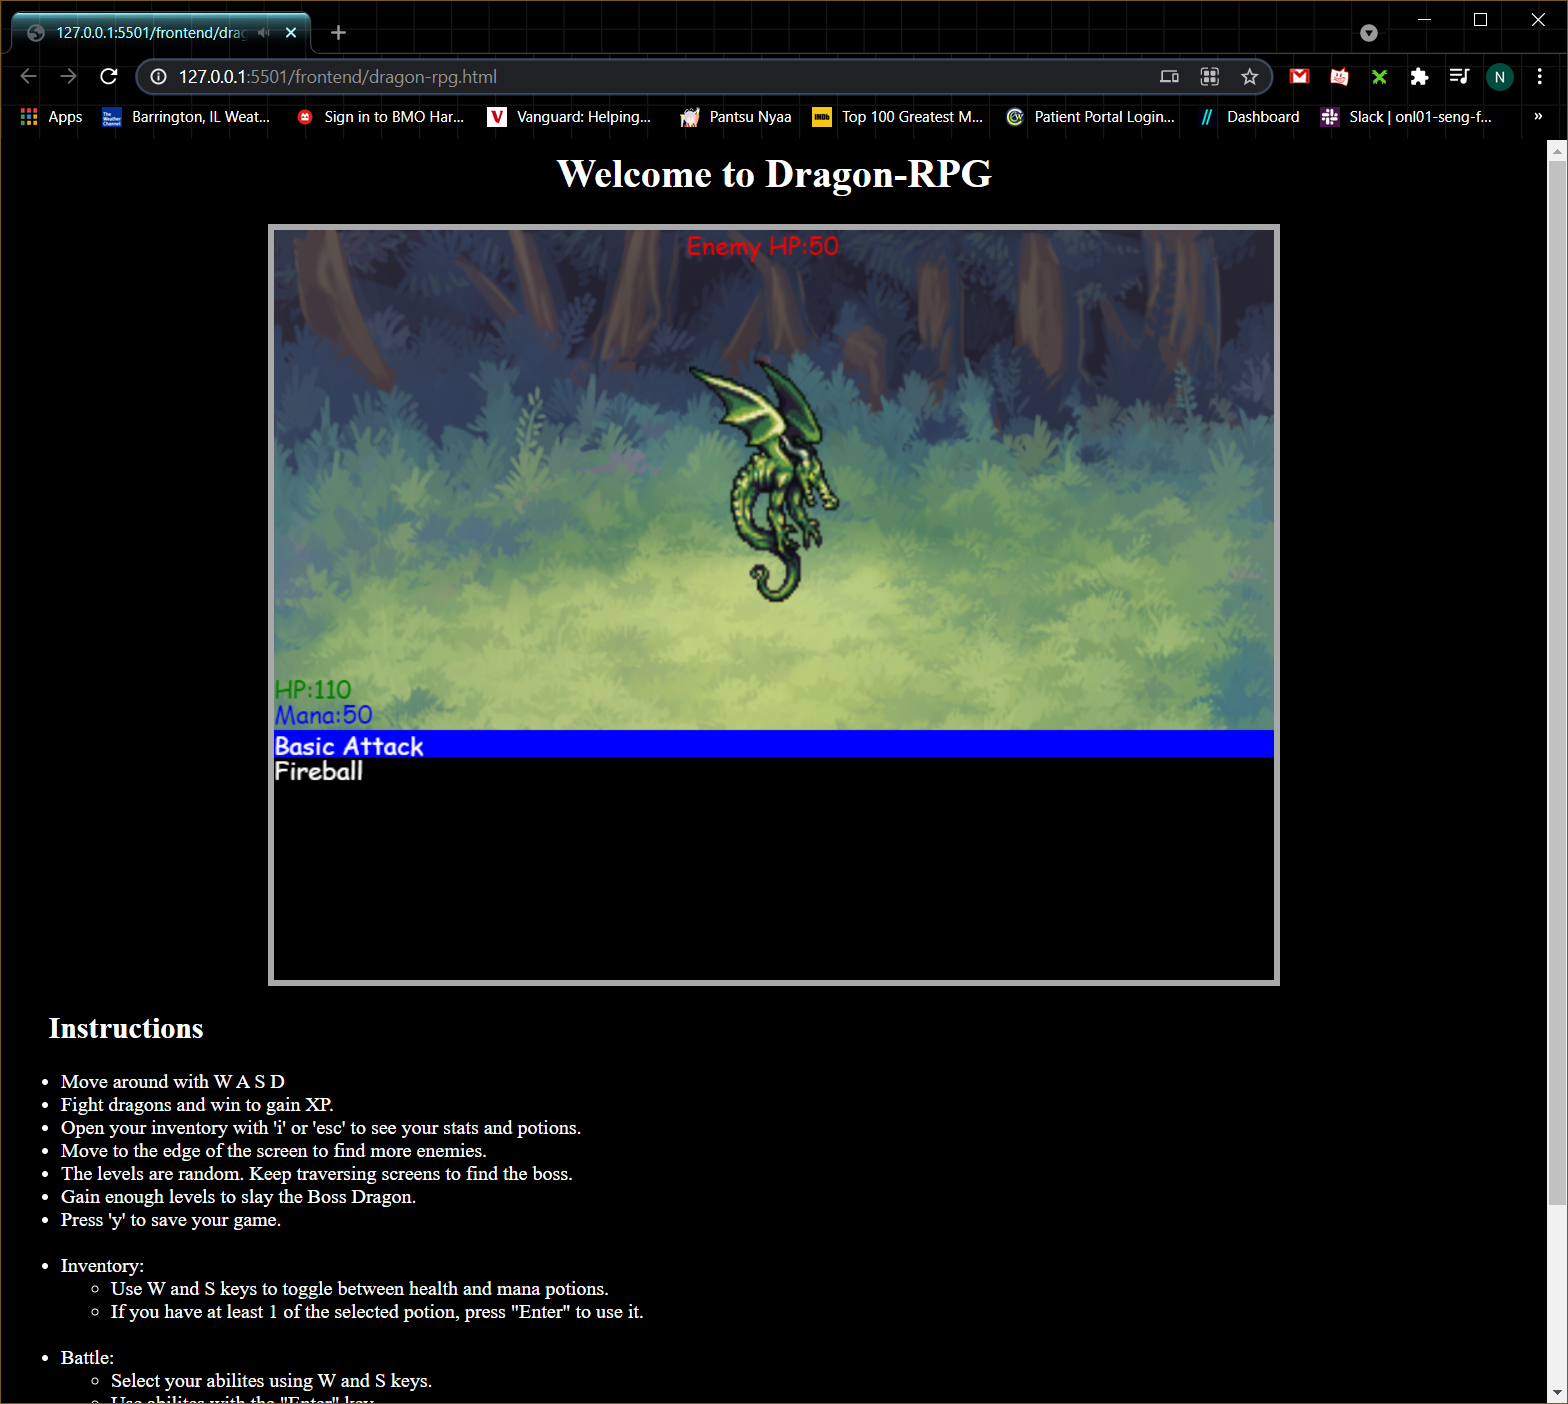
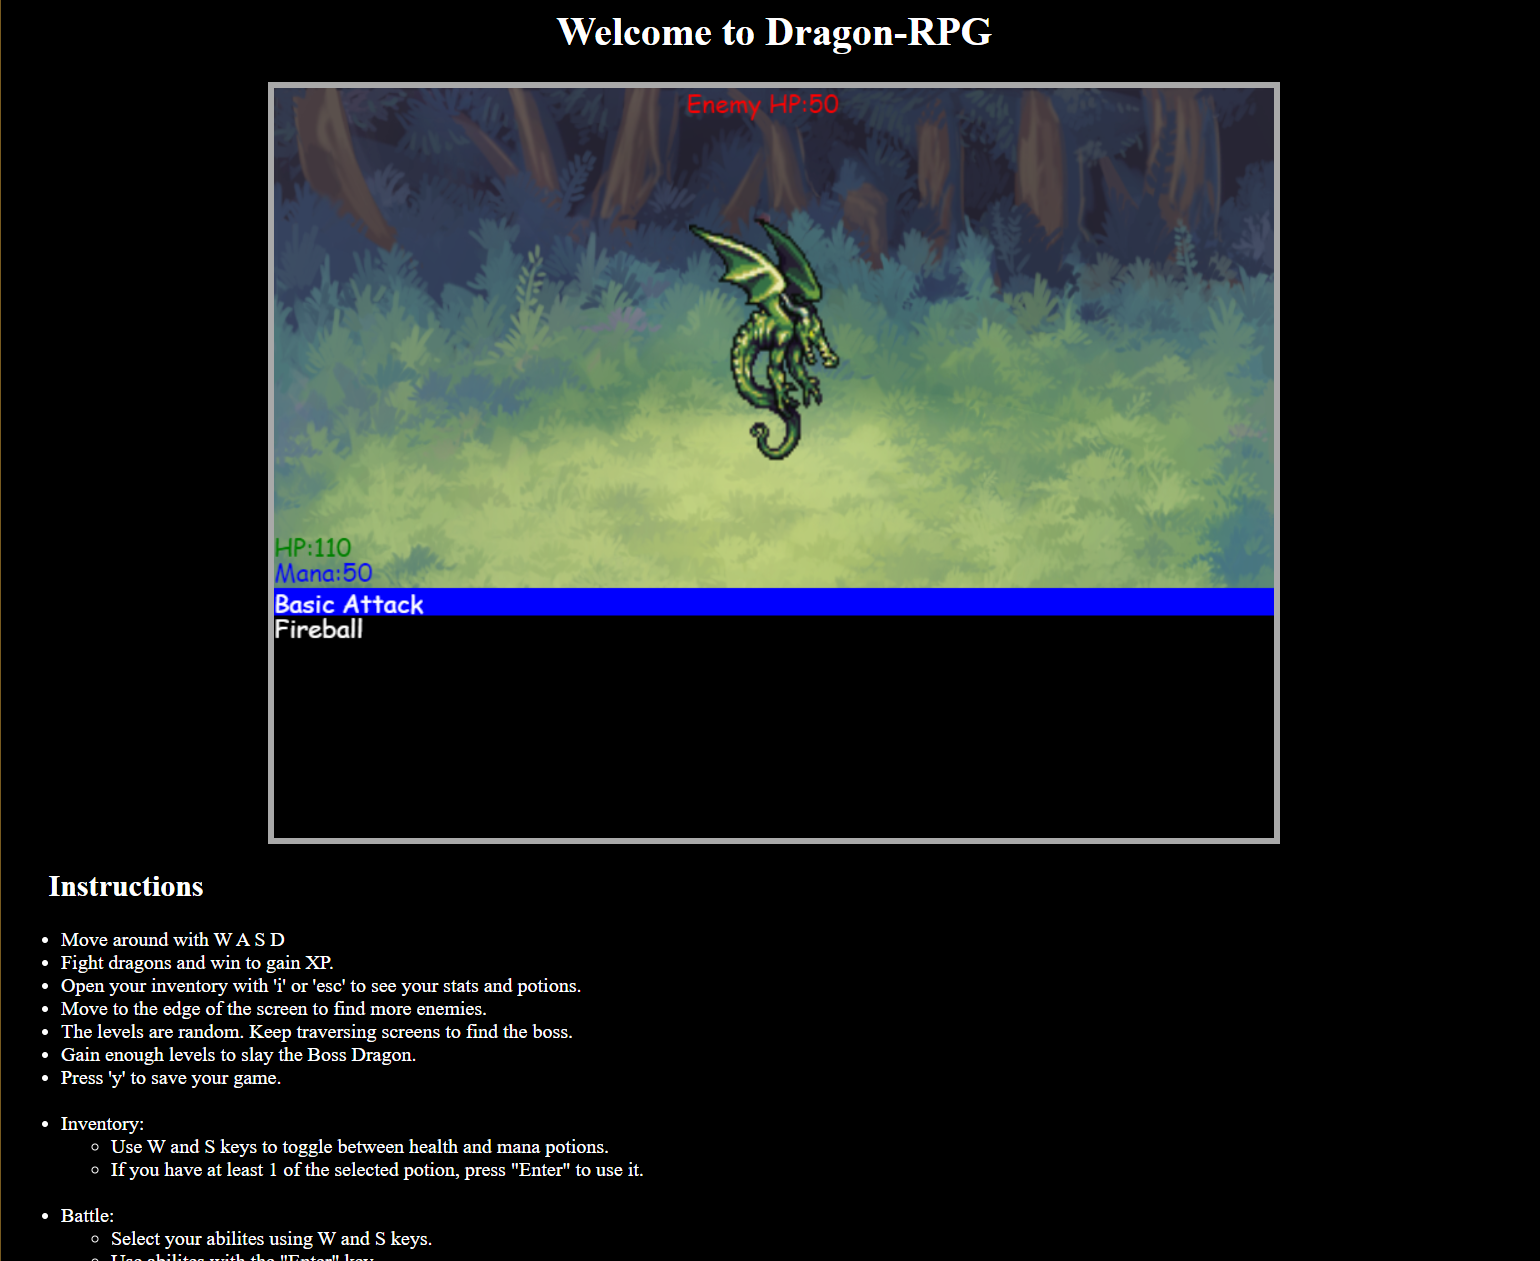
cropped tabs and url out of project photos and added pt to card images

diff --git a/src/components/project.js b/src/components/project.js
@@ -2,8 +2,8 @@ import Breadcrumb from 'react-bootstrap/Breadcrumb'
 import Card from 'react-bootstrap/Card'
 export default function Project({project}){
     return(
-        <Card bg="dark" variant="dark">
-            <Card.Img src={project.pic} className="mx-auto" alt={project.name} style={{height:"50vh",width:"82%", objectFit:'contain'}}/>
+        <Card style={{background:'#303030'}}>
+            <Card.Img src={project.pic} className="mx-auto pt-2" alt={project.name} style={{height:"50vh",width:"82%", objectFit:'contain'}}/>
             <Card.Body>
                 <Card.Title >{project.name}</Card.Title>
                 <Card.Text>{project.description}</Card.Text>

diff --git a/src/containers/projects.js b/src/containers/projects.js
@@ -43,7 +43,7 @@ export default class Projects extends Component{
                 <Col xl={10} className='m-auto'>
                     <ScrollAnimation animateIn="animate__fadeInDown"><h1 className="py-3">Projects</h1> </ScrollAnimation>
                     <ScrollAnimation animateIn="animate__fadeIn">
-                        <Carousel >
+                        <Carousel>
                             <Carousel.Item >
                                 <Project project={this.state.projects[0]} />
                             </Carousel.Item>
